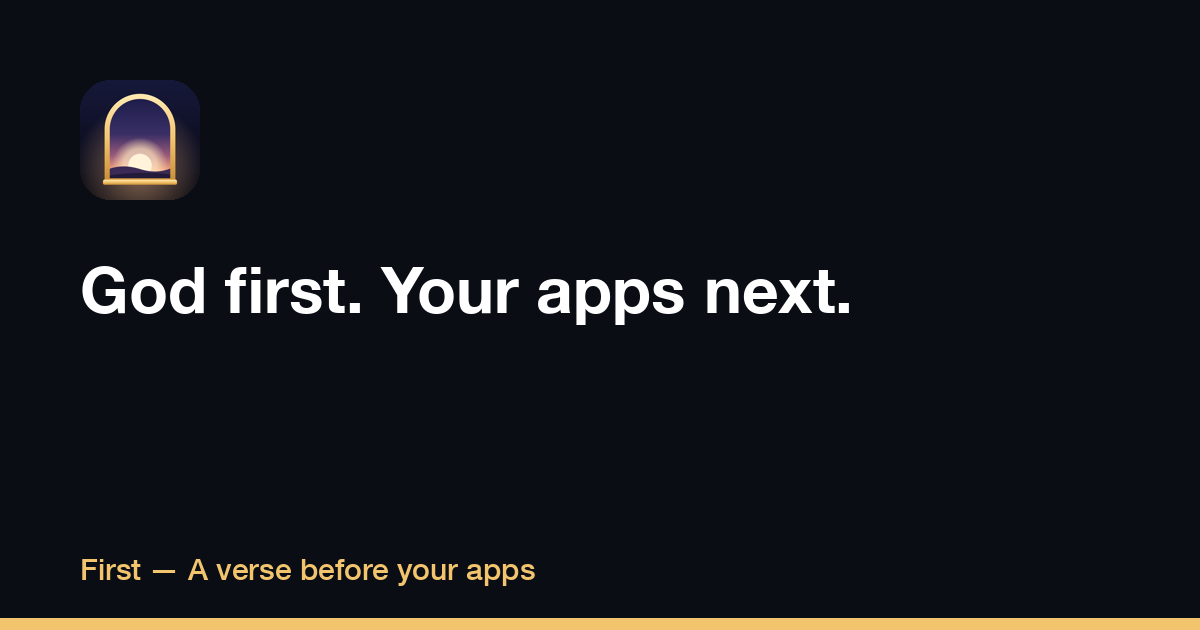
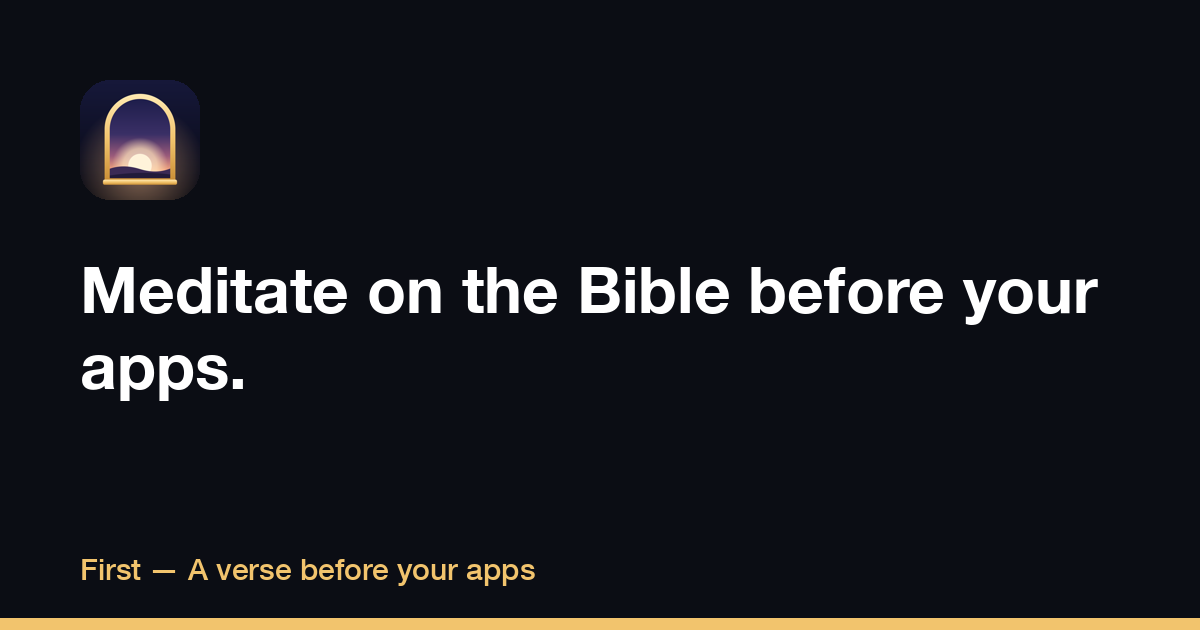
feat(first): use 'Meditate on the Bible before your apps' as the tagline

Changed region(s): [[0.0617, 0.4222, 0.925, 0.5127], [0.0617, 0.5429, 0.2158, 0.6333]]

diff --git a/fr/first/index.html b/fr/first/index.html
@@ -37,7 +37,7 @@
 <section class="wrap app-hero" aria-labelledby="hero-t">
 <div class="app-hero__copy">
 <div class="app-hero__id"><img class="icon" src="/assets/icons/first.png" alt="" width="72" height="72"><div><strong>First — Un verset avant tes apps</strong><span>iPhone · iOS 18 et plus · FR, EN, ES, IT, PT</span></div></div>
-<h1 id="hero-t" class="h-display">Dieu d’abord. Tes apps ensuite.</h1>
+<h1 id="hero-t" class="h-display">Médite la Bible avant tes apps.</h1>
 <p class="lead">« Cherchez premièrement le royaume de Dieu » (Matthieu 6:33). First garde les apps que vous choisissez verrouillées jusqu’à votre verset du jour. 30 secondes, puis tout se débloque.</p>
 <div class="app-hero__cta"><a class="btn-appstore" href="https://apps.apple.com/fr/app/id6822062329"><svg width="22" height="22" viewBox="0 0 24 24" fill="none" aria-hidden="true"><path d="M12 3v12m0 0l-5-5m5 5l5-5M5 20h14" stroke="currentColor" stroke-width="1.8" stroke-linecap="round" stroke-linejoin="round"/></svg><span><small>Télécharger dans</small><strong>l’App Store</strong></span></a><span class="app-hero__price">First Premium · annuel 39,99 € avec 3 jours d’essai gratuit · mensuel 6,99 €</span></div>
 </div>
@@ -64,7 +64,7 @@
 <p class="muted" style="margin:24px 0 0;font-size:15px">Une autre question ? Consultez <a href="https://apps.shipit.group/first/support.html">le support First</a>.</p>
 </div></section>
 <section class="wrap sect" aria-labelledby="cta-t">
-<div class="cta-panel"><h2 id="cta-t">Dieu d’abord. Tes apps ensuite.</h2><a class="btn btn--white" href="https://apps.apple.com/fr/app/id6822062329">Télécharger First</a></div>
+<div class="cta-panel"><h2 id="cta-t">Médite la Bible avant tes apps.</h2><a class="btn btn--white" href="https://apps.apple.com/fr/app/id6822062329">Télécharger First</a></div>
 <p class="fineprint">First est une application éditée par SHIP IT. Ce n’est pas un outil de contrôle parental.</p>
 </section>
 </main>

diff --git a/first/index.html b/first/index.html
@@ -37,7 +37,7 @@
 <section class="wrap app-hero" aria-labelledby="hero-t">
 <div class="app-hero__copy">
 <div class="app-hero__id"><img class="icon" src="/assets/icons/first.png" alt="" width="72" height="72"><div><strong>First — A verse before your apps</strong><span>iPhone · iOS 18 or later · EN, FR, ES, IT, PT</span></div></div>
-<h1 id="hero-t" class="h-display">God first. Your apps next.</h1>
+<h1 id="hero-t" class="h-display">Meditate on the Bible before your apps.</h1>
 <p class="lead">“Seek ye first the kingdom of God” (Matthew 6:33). First keeps the apps you choose locked until you read your verse of the day. 30 seconds, then everything unlocks.</p>
 <div class="app-hero__cta"><a class="btn-appstore" href="https://apps.apple.com/app/id6822062329"><svg width="22" height="22" viewBox="0 0 24 24" fill="none" aria-hidden="true"><path d="M12 3v12m0 0l-5-5m5 5l5-5M5 20h14" stroke="currentColor" stroke-width="1.8" stroke-linecap="round" stroke-linejoin="round"/></svg><span><small>Download on the</small><strong>App Store</strong></span></a><span class="app-hero__price">First Premium · yearly €39.99 with a 3-day free trial · monthly €6.99</span></div>
 </div>
@@ -64,7 +64,7 @@
 <p class="muted" style="margin:24px 0 0;font-size:15px">Another question? Visit <a href="https://apps.shipit.group/first/support.html">First support</a>.</p>
 </div></section>
 <section class="wrap sect" aria-labelledby="cta-t">
-<div class="cta-panel"><h2 id="cta-t">God first. Your apps next.</h2><a class="btn btn--white" href="https://apps.apple.com/app/id6822062329">Download First</a></div>
+<div class="cta-panel"><h2 id="cta-t">Meditate on the Bible before your apps.</h2><a class="btn btn--white" href="https://apps.apple.com/app/id6822062329">Download First</a></div>
 <p class="fineprint">First is an app made by SHIP IT. It is not a parental control tool.</p>
 </section>
 </main>

diff --git a/_build/content_apps.py b/_build/content_apps.py
@@ -162,7 +162,7 @@ APPS = {
      title='First — un verset de la Bible avant vos apps, chaque jour',
      desc='First garde vos apps (réseaux sociaux…) verrouillées avec Temps d’écran jusqu’à la lecture du verset du jour : 30 secondes, puis tout se débloque. Sans compte.',
      full_name='First — Un verset avant tes apps', sub='iPhone · iOS 18 et plus · FR, EN, ES, IT, PT',
-     h1='Dieu d’abord. Tes apps ensuite.',
+     h1='Médite la Bible avant tes apps.',
      lead='« Cherchez premièrement le royaume de Dieu » (Matthieu 6:33). First garde les apps que vous choisissez verrouillées jusqu’à votre verset du jour. 30 secondes, puis tout se débloque.',
      price_line='First Premium · annuel 39,99 € avec 3 jours d’essai gratuit · mensuel 6,99 €',
      shot_alts=['Accueil : le verset du jour vous attend', 'Écran de blocage : lire pour débloquer', 'Le verset en plein écran', 'Un plan de lecture : la Bible en 1 an', 'Widgets : série et apps en attente'],
@@ -171,7 +171,7 @@ APPS = {
      hl=('Le principe', 'Un verset avant tes apps.', 'Vos apps restent verrouillées jusqu’à la lecture. First ne voit ni le nom de vos apps ni ce que vous y faites.', [('30 s', 'Pour le verset du jour'), ('15 min', 'De déblocage d’urgence'), ('0', 'Compte à créer')]),
      plans=[('Mensuel', '6,99 €', 'par mois. Blocage des apps, widgets et plans de lecture.', False, None), ('Annuel', '39,99 €', 'par an. 3 jours d’essai gratuit.', True, '3 jours offerts')],
      faq=[('Comment fonctionne First ?', 'Les apps que vous choisissez restent verrouillées via Temps d’écran jusqu’à la lecture du verset du jour : environ 30 secondes avec un verset, une réflexion, une prière et un quiz facultatif. Ensuite, elles se débloquent.'), ('First voit-il mes apps ?', 'Non. Apple ne transmet à First que des jetons opaques : First ne voit ni le nom de vos apps ni l’usage que vous en faites.'), ('Faut-il créer un compte ?', 'Non. Tout est stocké sur votre iPhone, sans iCloud ni serveur First.'), ('Et en cas d’urgence ?', 'Un déblocage d’urgence de 15 minutes est disponible à tout moment.'), ('Combien coûte First ?', 'First Premium coûte 39,99 € par an avec 3 jours d’essai gratuit, ou 6,99 € par mois. L’abonnement se renouvelle automatiquement et se résilie dans les réglages de votre identifiant Apple.')],
-     cta='Dieu d’abord. Tes apps ensuite.',
+     cta='Médite la Bible avant tes apps.',
      disclaimer='First est une application éditée par SHIP IT. Ce n’est pas un outil de contrôle parental.',
      blog_h1='Un verset avant tes apps.', blog_lead='Lecture de la Bible, temps d’écran et habitudes du matin.', blog_title='Blog First',
    ),
@@ -179,7 +179,7 @@ APPS = {
      title='First — a Bible verse before your apps, every day',
      desc='First keeps your apps (social media…) locked with Screen Time until you read the verse of the day: 30 seconds, then everything unlocks. No account.',
      full_name='First — A verse before your apps', sub='iPhone · iOS 18 or later · EN, FR, ES, IT, PT',
-     h1='God first. Your apps next.',
+     h1='Meditate on the Bible before your apps.',
      lead='“Seek ye first the kingdom of God” (Matthew 6:33). First keeps the apps you choose locked until you read your verse of the day. 30 seconds, then everything unlocks.',
      price_line='First Premium · yearly €39.99 with a 3-day free trial · monthly €6.99',
      shot_alts=['Home: your verse of the day is waiting', 'Shield screen: read to unlock', 'The verse, full screen', 'A reading plan: the Bible in a year', 'Widgets: streak and apps waiting'],
@@ -188,7 +188,7 @@ APPS = {
      hl=('How it works', 'A verse before your apps.', 'Your apps stay locked until you read. First cannot see the names of your apps or what you do in them.', [('30 s', 'For the verse of the day'), ('15 min', 'Emergency unlock'), ('0', 'Accounts to create')]),
      plans=[('Monthly', '€6.99', 'per month. App locking, widgets and reading plans.', False, None), ('Yearly', '€39.99', 'per year. 3-day free trial.', True, '3 days free')],
      faq=[('How does First work?', 'The apps you choose stay locked with Screen Time until you read the verse of the day: about 30 seconds with a verse, a reflection, a prayer and an optional quiz. Then they unlock.'), ('Can First see my apps?', 'No. Apple only gives First opaque tokens: First cannot see the names of your apps or how you use them.'), ('Do I need an account?', 'No. Everything is stored on your iPhone, with no iCloud and no First server.'), ('What if it’s an emergency?', 'A 15-minute emergency unlock is available at any time.'), ('How much does First cost?', 'First Premium costs €39.99 per year with a 3-day free trial, or €6.99 per month. The subscription renews automatically and can be cancelled in your Apple ID settings.')],
-     cta='God first. Your apps next.',
+     cta='Meditate on the Bible before your apps.',
      disclaimer='First is an app made by SHIP IT. It is not a parental control tool.',
      blog_h1='A verse before your apps.', blog_lead='Bible reading, screen time and morning habits.', blog_title='First Blog',
    ),
